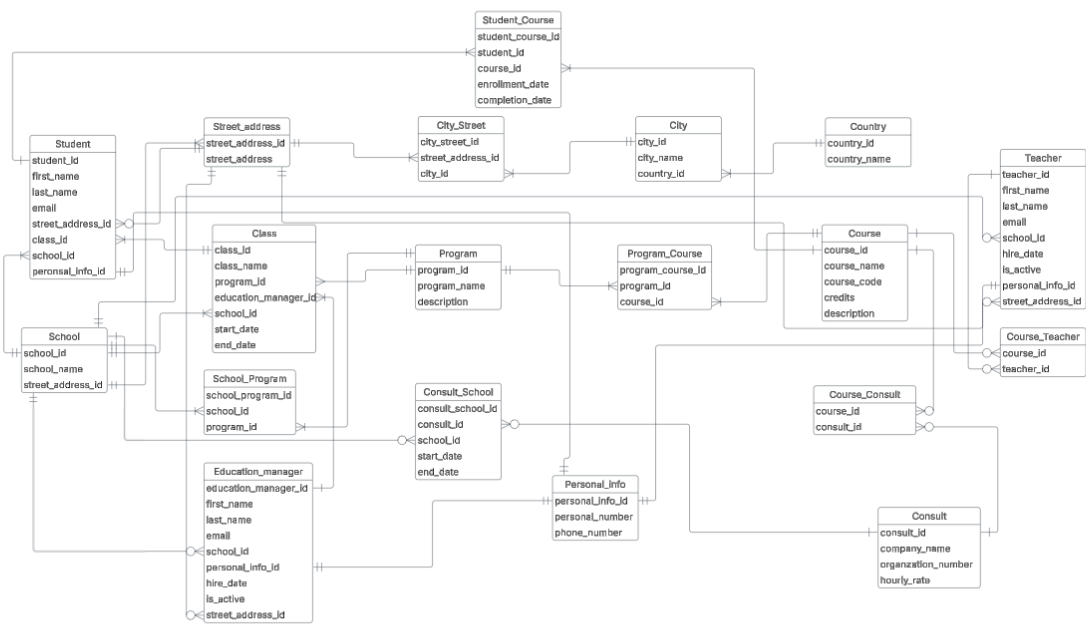
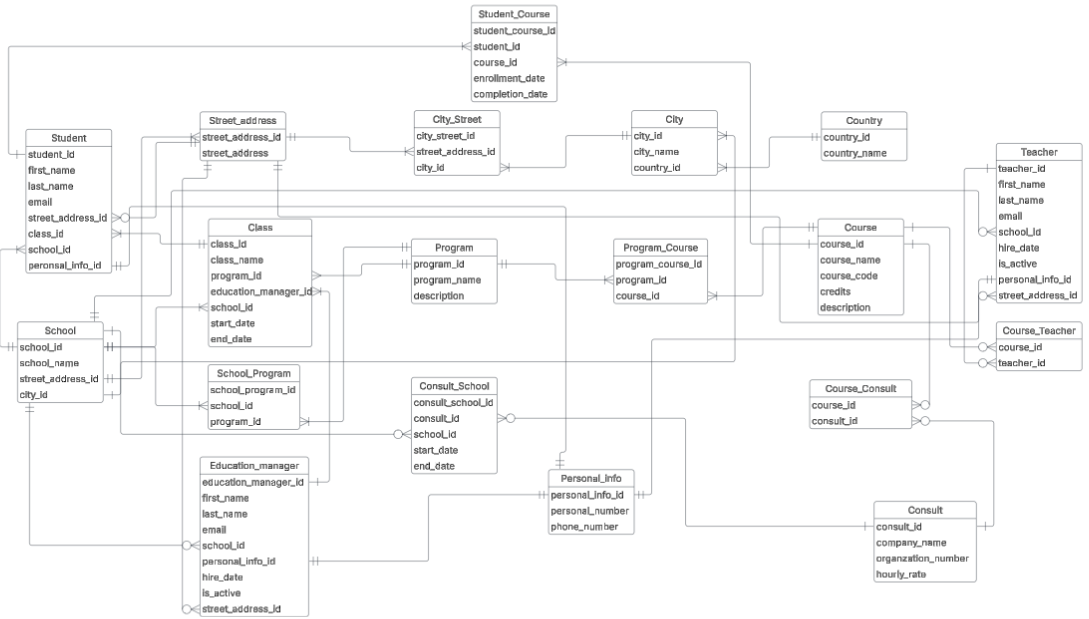
Started on dbml file for physical model

diff --git a/yh_labb/Uppgift_0/uppgift_0.md b/yh_labb/Uppgift_0/uppgift_0.md
@@ -34,9 +34,13 @@
 - An Education manager can work at one and only one School, a School has zero or several Education managers
 - An Education manager has one and only one streetaddress, a streetaddress can have zero or many education managers
 - A Teacher have one and only one streetaddress, a streetaddress can have zero or several teachers
+- A School can ben be in one-or-many cities, a City can only have one yrkesco School (Business rule)
 
 ## d)
 
 <img src = "../../assets/logical_yrkesco.png" width=700>
 
 ## e)
+
+<img src = "../../assets/physical_yrkesco.png" width=700>
+or see dmbl file
